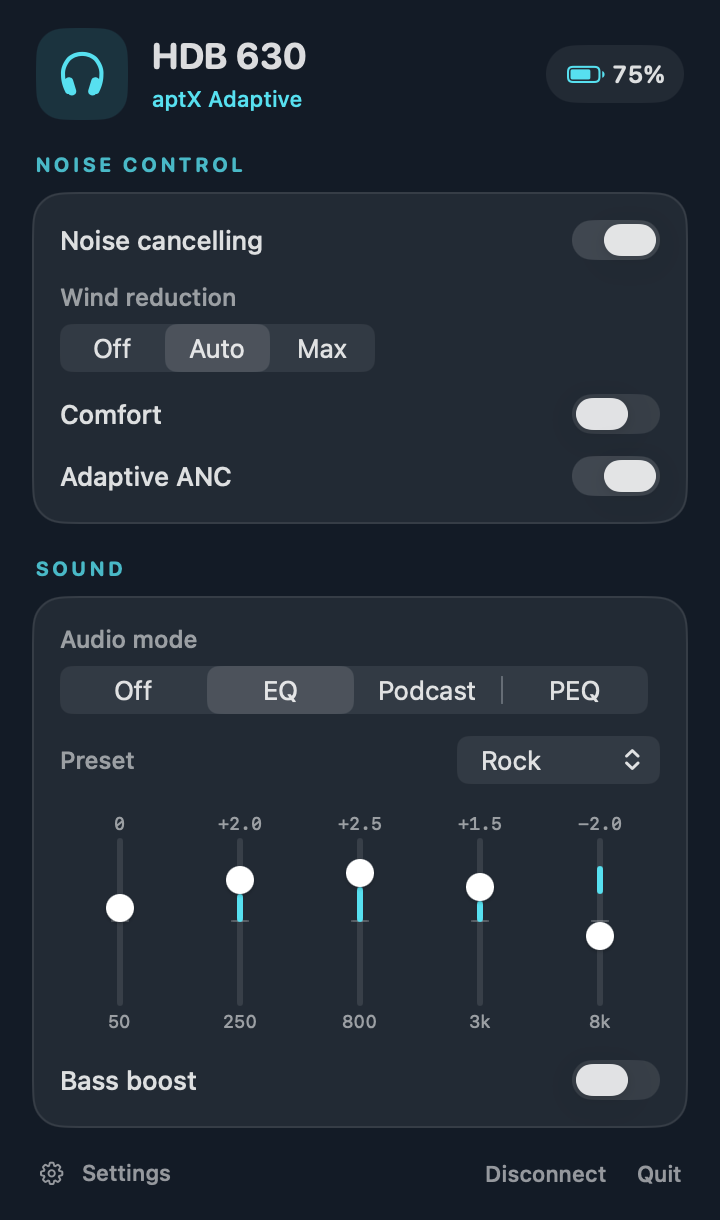
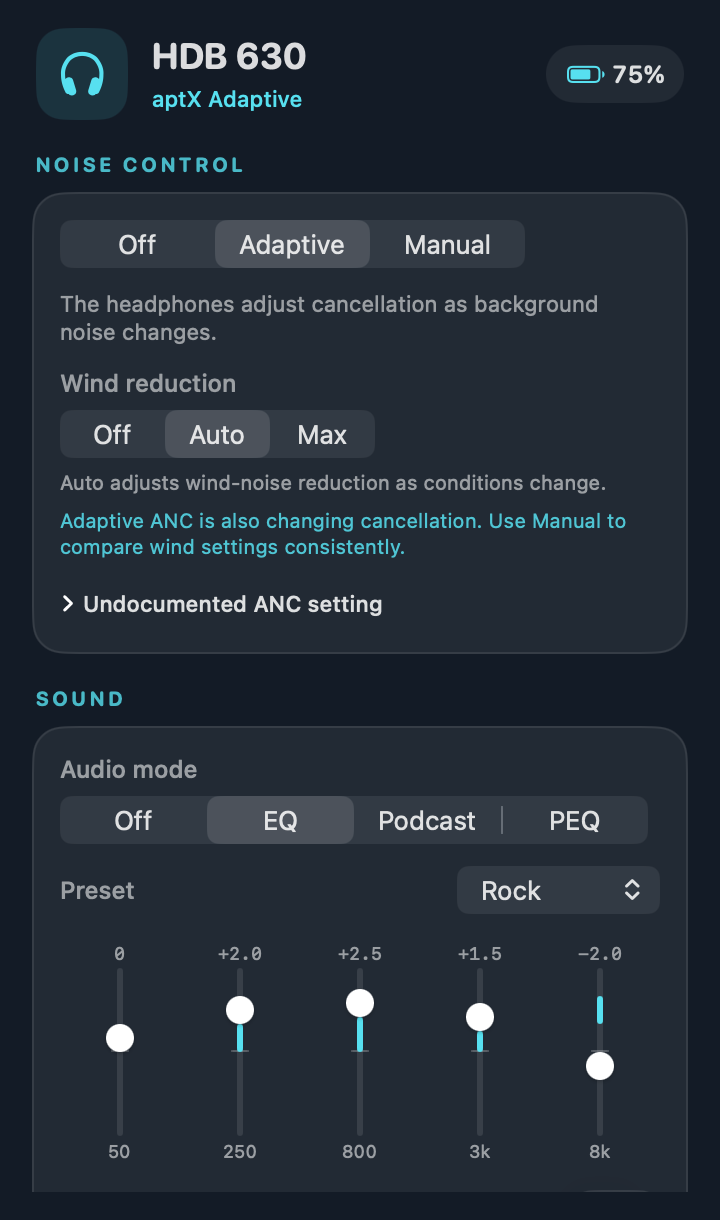
Clarify ANC modes and wind reduction controls

diff --git a/UI/StatusBarView.swift b/UI/StatusBarView.swift
@@ -94,13 +94,13 @@ private struct ConnectedView: View {
             CardSection("Noise Control") {
                 ANCSection(controller: controller)
 
-                if controller.ancEnabled && !controller.ancState.adaptive {
+                if controller.noiseControlMode == .custom {
                     VStack(alignment: .leading, spacing: 4) {
                         HStack {
-                            Text("Transparent Hearing")
+                            Text("Manual balance")
                                 .font(.callout)
                             Spacer()
-                            Text("\(controller.transparencyLevel)%")
+                            Text("\(controller.transparencyLevel)% transparency")
                                 .font(.caption)
                                 .monospacedDigit()
                                 .foregroundStyle(.secondary)
@@ -117,8 +117,21 @@ private struct ConnectedView: View {
                             in: 0...100,
                             step: 1
                         )
+                        HStack {
+                            Text("More cancellation")
+                            Spacer()
+                            Text("More outside sound")
+                        }
+                        .font(.system(size: 10))
+                        .foregroundStyle(.tertiary)
+                        if controller.transparencyLevel >= 90 {
+                            Text("Transparency is near maximum. Move the slider toward cancellation to judge ANC strength.")
+                                .font(.system(size: 10))
+                                .foregroundStyle(ControlStyle.accent.opacity(0.85))
+                                .fixedSize(horizontal: false, vertical: true)
+                        }
                     }
-                    .tooltip("Lets outside sounds through while ANC is active")
+                    .tooltip("Balance noise cancellation and outside sound in Manual mode")
                 }
             }
 
@@ -163,21 +176,24 @@ private struct ConnectedView: View {
 
 private struct ANCSection: View {
     @ObservedObject var controller: HeadphoneController
+    @State private var showExperimental = false
 
     var body: some View {
-        HStack {
-            Text("Noise cancelling")
-                .font(.system(size: 13, weight: .medium))
-            Spacer()
-            Toggle("", isOn: Binding(
-                get: { controller.ancEnabled },
-                set: { on in Task { await controller.setANCEnabled(on) } }
-            ))
-            .toggleStyle(.switch)
-            .controlSize(.small)
-            .labelsHidden()
+        Picker("Noise control", selection: Binding(
+            get: { controller.noiseControlMode },
+            set: { mode in Task { await controller.setNoiseControlMode(mode) } }
+        )) {
+            ForEach(NoiseControlMode.allCases, id: \.self) { mode in
+                Text(mode.title).tag(mode)
+            }
         }
-        .tooltip("Reduces ambient noise using built-in microphones")
+        .pickerStyle(.segmented)
+        .labelsHidden()
+
+        Text(controller.noiseControlMode.explanation)
+            .font(.system(size: 11))
+            .foregroundStyle(.secondary)
+            .fixedSize(horizontal: false, vertical: true)
 
         if controller.ancEnabled {
             VStack(alignment: .leading, spacing: 6) {
@@ -194,36 +210,45 @@ private struct ANCSection: View {
                 }
                 .pickerStyle(.segmented)
                 .labelsHidden()
+                Text(windExplanation)
+                    .font(.system(size: 10))
+                    .foregroundStyle(.secondary)
+                    .fixedSize(horizontal: false, vertical: true)
+                if controller.ancState.adaptive {
+                    Text("Adaptive ANC is also changing cancellation. Use Manual to compare wind settings consistently.")
+                        .font(.system(size: 10))
+                        .foregroundStyle(ControlStyle.accent.opacity(0.85))
+                        .fixedSize(horizontal: false, vertical: true)
+                }
             }
-            .tooltip("Reduces wind noise — Auto adjusts based on conditions")
 
-            HStack {
-                Text("Comfort")
-                    .font(.system(size: 13, weight: .medium))
-                Spacer()
-                Toggle("", isOn: Binding(
-                    get: { controller.ancState.comfort },
-                    set: { on in Task { await controller.setComfort(on) } }
-                ))
-                .toggleStyle(.switch)
-                .controlSize(.small)
-                .labelsHidden()
+            DisclosureGroup("Undocumented ANC setting", isExpanded: $showExperimental) {
+                HStack {
+                    Text("Comfort flag")
+                        .font(.system(size: 12, weight: .medium))
+                    Spacer()
+                    Toggle("", isOn: Binding(
+                        get: { controller.ancState.comfort },
+                        set: { on in Task { await controller.setComfort(on) } }
+                    ))
+                    .toggleStyle(.switch)
+                    .controlSize(.small)
+                    .labelsHidden()
+                }
+                Text("The headphones expose this flag, but Sennheiser does not document its effect for HDB 630. We have verified the write and readback, not an acoustic result. This is separate from Comfort Call.")
+                    .font(.system(size: 10))
+                    .foregroundStyle(.secondary)
+                    .fixedSize(horizontal: false, vertical: true)
             }
-            .tooltip("Reduced ANC strength for less ear pressure")
+            .font(.system(size: 11, weight: .medium))
+        }
+    }
 
-            HStack {
-                Text("Adaptive ANC")
-                    .font(.system(size: 13, weight: .medium))
-                Spacer()
-                Toggle("", isOn: Binding(
-                    get: { controller.ancState.adaptive },
-                    set: { on in Task { await controller.setAdaptive(on) } }
-                ))
-                .toggleStyle(.switch)
-                .controlSize(.small)
-                .labelsHidden()
-            }
-            .tooltip("Automatically adjusts ANC level based on environment")
+    private var windExplanation: String {
+        switch controller.ancState.antiWind {
+        case 1: "Max prioritizes wind-noise reduction; it does not mean maximum overall cancellation."
+        case 2: "Auto adjusts wind-noise reduction as conditions change."
+        default: "Off disables wind-noise reduction. Regular ANC can still be active."
         }
     }
 }

diff --git a/tools/MockController.swift b/tools/MockController.swift
@@ -31,6 +31,10 @@ final class HeadphoneController: ObservableObject {
     @Published var controlError: String?
     @Published var ancEnabled: Bool = true
     @Published var ancState = ANCState(antiWind: 2, comfort: false, adaptive: false)
+    var noiseControlMode: NoiseControlMode {
+        guard ancEnabled else { return .off }
+        return ancState.adaptive ? .adaptive : .custom
+    }
     @Published var transparencyLevel: Int = 45
     @Published var sidetoneLevel: Int = 2
     @Published var autoPauseEnabled: Bool = true
@@ -63,6 +67,7 @@ final class HeadphoneController: ObservableObject {
 
     // No-op stubs for methods called by views
     func setANCEnabled(_ on: Bool) async {}
+    func setNoiseControlMode(_ mode: NoiseControlMode) async {}
     func setAntiWind(_ val: Int) async {}
     func setComfort(_ on: Bool) async {}
     func setAdaptive(_ on: Bool) async {}

diff --git a/Bluetooth/Models.swift b/Bluetooth/Models.swift
@@ -13,9 +13,31 @@ enum ConnectionState: Equatable {
 // MARK: - Device Models
 
 struct ANCState: Equatable {
-    var antiWind: Int = 0    // 0=off, 1=on, 2=auto
+    var antiWind: Int = 0    // 0=off, 1=max, 2=auto
     var comfort: Bool = false
     var adaptive: Bool = false
+}
+
+enum NoiseControlMode: Int, CaseIterable {
+    case off
+    case adaptive
+    case custom
+
+    var title: String {
+        switch self {
+        case .off: "Off"
+        case .adaptive: "Adaptive"
+        case .custom: "Manual"
+        }
+    }
+
+    var explanation: String {
+        switch self {
+        case .off: "Noise cancellation is off."
+        case .adaptive: "The headphones adjust cancellation as background noise changes."
+        case .custom: "Use the manual ANC and transparency balance below."
+        }
+    }
 }
 
 struct DeviceInfo: Equatable {

diff --git a/Bluetooth/HeadphoneController.swift b/Bluetooth/HeadphoneController.swift
@@ -165,6 +165,26 @@ final class HeadphoneController: ObservableObject {
         await fetchANCStatus()
     }
 
+    var noiseControlMode: NoiseControlMode {
+        guard ancEnabled else { return .off }
+        return ancState.adaptive ? .adaptive : .custom
+    }
+
+    func setNoiseControlMode(_ mode: NoiseControlMode) async {
+        switch mode {
+        case .off:
+            await setANCEnabled(false)
+        case .adaptive:
+            if !ancEnabled { await setANCEnabled(true) }
+            guard ancEnabled else { return }
+            await setAdaptive(true)
+        case .custom:
+            if !ancEnabled { await setANCEnabled(true) }
+            guard ancEnabled else { return }
+            await setAdaptive(false)
+        }
+    }
+
     // MARK: - ANC Mode (anti-wind, comfort, adaptive)
 
     func fetchANCMode() async {

diff --git a/README.md b/README.md
@@ -88,8 +88,9 @@ docs/                          -- Protocol docs and RE guide
 ## Features
 
 **Noise Control**
-- ANC modes: Adaptive, Comfort, Anti-Wind (off/max/auto)
-- Global ANC on/off
+- Noise-control modes: Off, Adaptive, Manual, with explanations in the app
+- Anti-Wind (off/max/auto); the app explains that Max wind filtering is not maximum overall ANC
+- Undocumented Comfort ANC flag under advanced controls, clearly marked as unverified acoustically
 - Transparency level (0-100)
 
 **Audio**
@@ -124,7 +125,7 @@ docs/                          -- Protocol docs and RE guide
 
 ## Live validation
 
-On an HDB 630 and BTD 700 (firmware 3.11.0), the following controls were changed, read back from the device, and restored: ANC on/off; Anti-Wind Off/Max/Auto; Comfort; Adaptive ANC; transparency; call and general settings; a graphic EQ band; each parametric EQ command type; crossfeed; dongle mode; and dongle disconnect/reconnect. The Anti-Wind values are `0=Off`, `1=Max`, `2=Auto`. Crossfeed uses `0=Low`, `1=High`, `2=Off`.
+On an HDB 630 and BTD 700 (firmware 3.11.0), the following controls were changed, read back from the device, and restored: ANC on/off; Anti-Wind Off/Max/Auto; the undocumented Comfort flag; Adaptive ANC; transparency; call and general settings; a graphic EQ band; each parametric EQ command type; crossfeed; dongle mode; and dongle disconnect/reconnect. This confirms protocol readback, not the audible effect of every setting. The Anti-Wind values are `0=Off`, `1=Max`, `2=Auto`. Crossfeed uses `0=Low`, `1=High`, `2=Off`.
 
 The app refreshes headset state after discrete writes and reports rejected commands. It also handles multi-stage PEQ notifications. The connected HDB 630 currently reports only aptX Adaptive as a dongle codec option, so codec switching across different headphones remains unverified. Firmware updates and Auracast broadcast configuration still use Sennheiser Dongle Control.
 

diff --git a/docs/02-gaia-v3-commands.md b/docs/02-gaia-v3-commands.md
@@ -46,6 +46,8 @@ Response cmd = request cmd | 0x0100. Error cmd = request cmd | 0x0180.
 | Adaptive | 3 | 0=off, 1=on |
 
 The 6-byte GET response always returns all 3 modes in order: `[01, s1, 02, s2, 03, s3]`.
+Sennheiser's [HDB 630 manual](https://cdn.sennheiser-hearing.com/product-documents/product-downloads/hdb-630/Instruction%20manual%20HDB%20630/Instruction_manual_HDB_630.pdf) describes Off, Auto, and Max as **wind-noise reduction**, separate from overall ANC intensity. The 0/1/2 wire mapping is corroborated by device write/readback and [m4-companion's GAIA implementation](https://github.com/Zhengyang-Liu/m4-companion/blob/main/Sources/MomentumCore/MomentumControls.swift); it is not an objective measurement of acoustic effect. Adaptive ANC can change cancellation during a comparison, and a high manual transparency level intentionally passes through outside sound.
+The HDB 630 manual documents Adaptive ANC and Wind Noise Reduction, but does not define the acoustic effect of mode 2. The app exposes mode 2 only as an undocumented Comfort flag. Successful write/readback does not establish what it does to the sound; it is unrelated to the documented Comfort Call feature.
 
 ## Transparency
 
